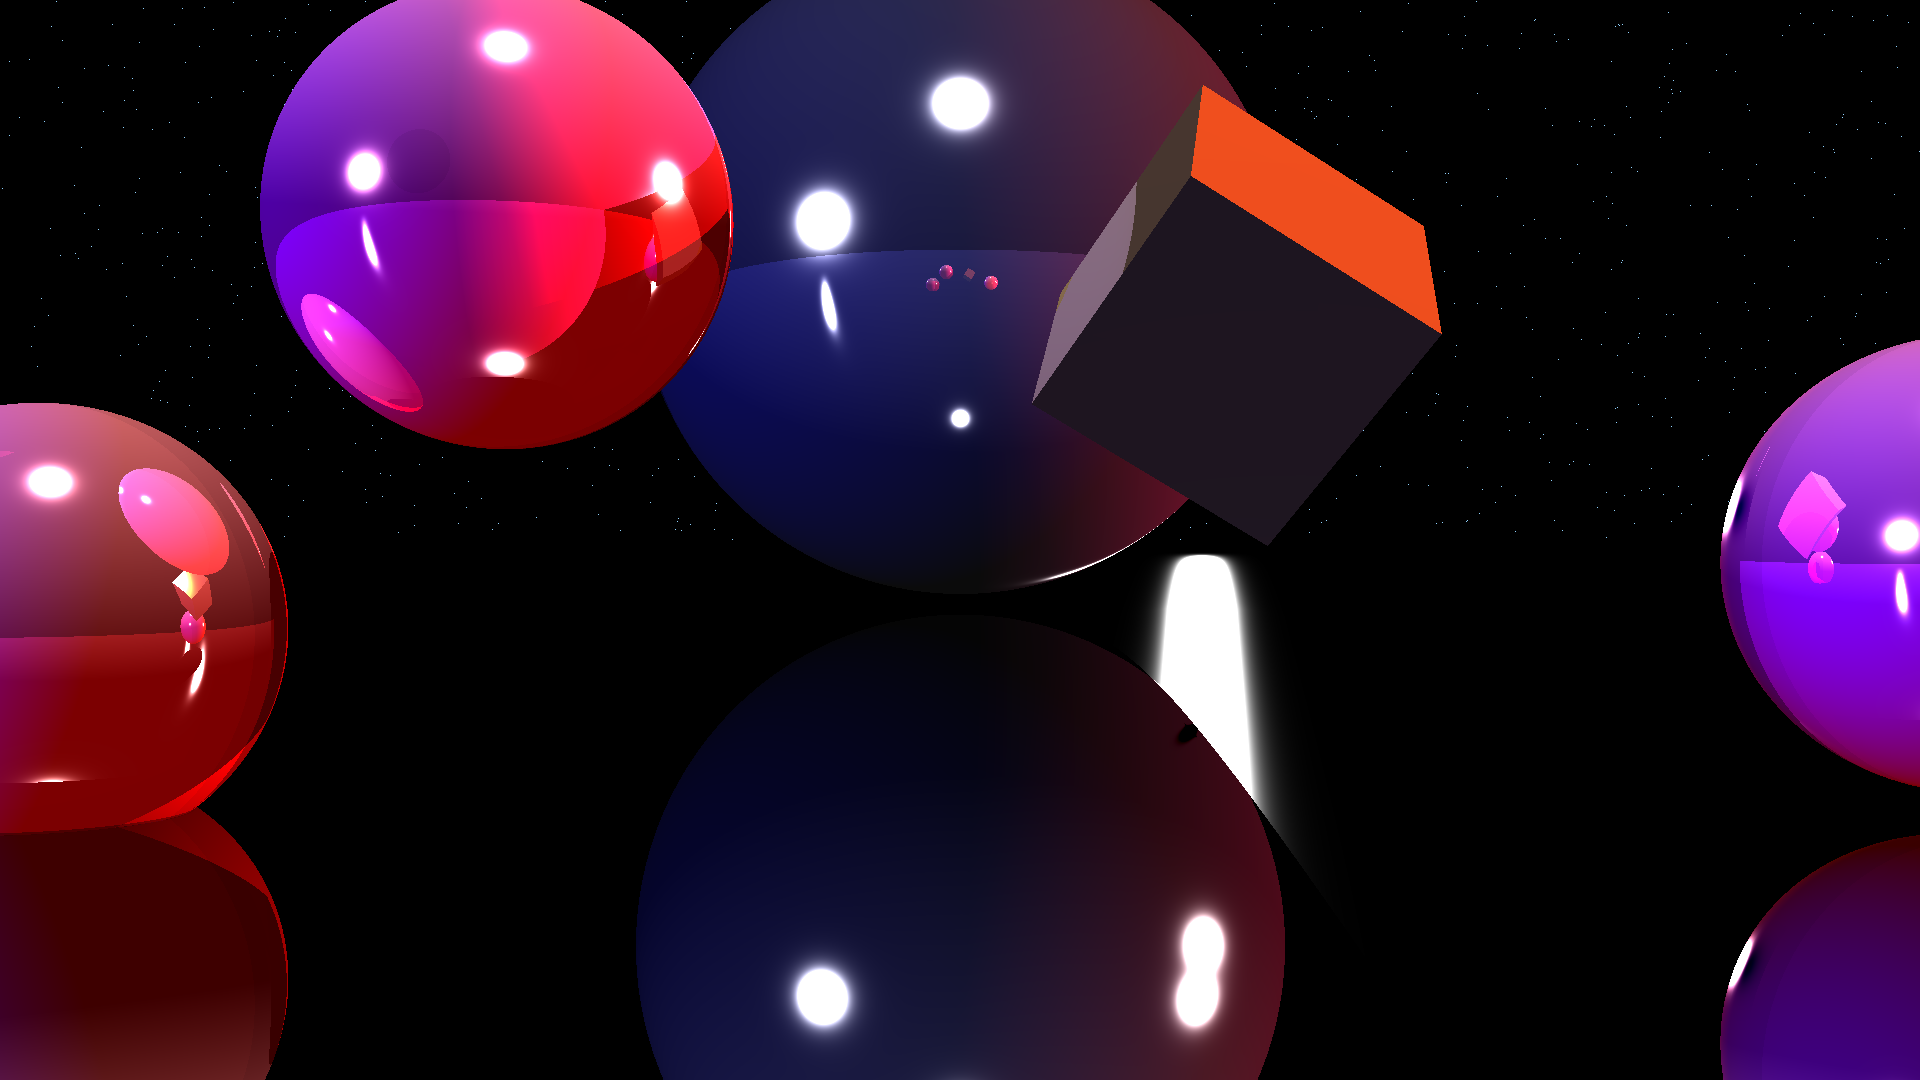
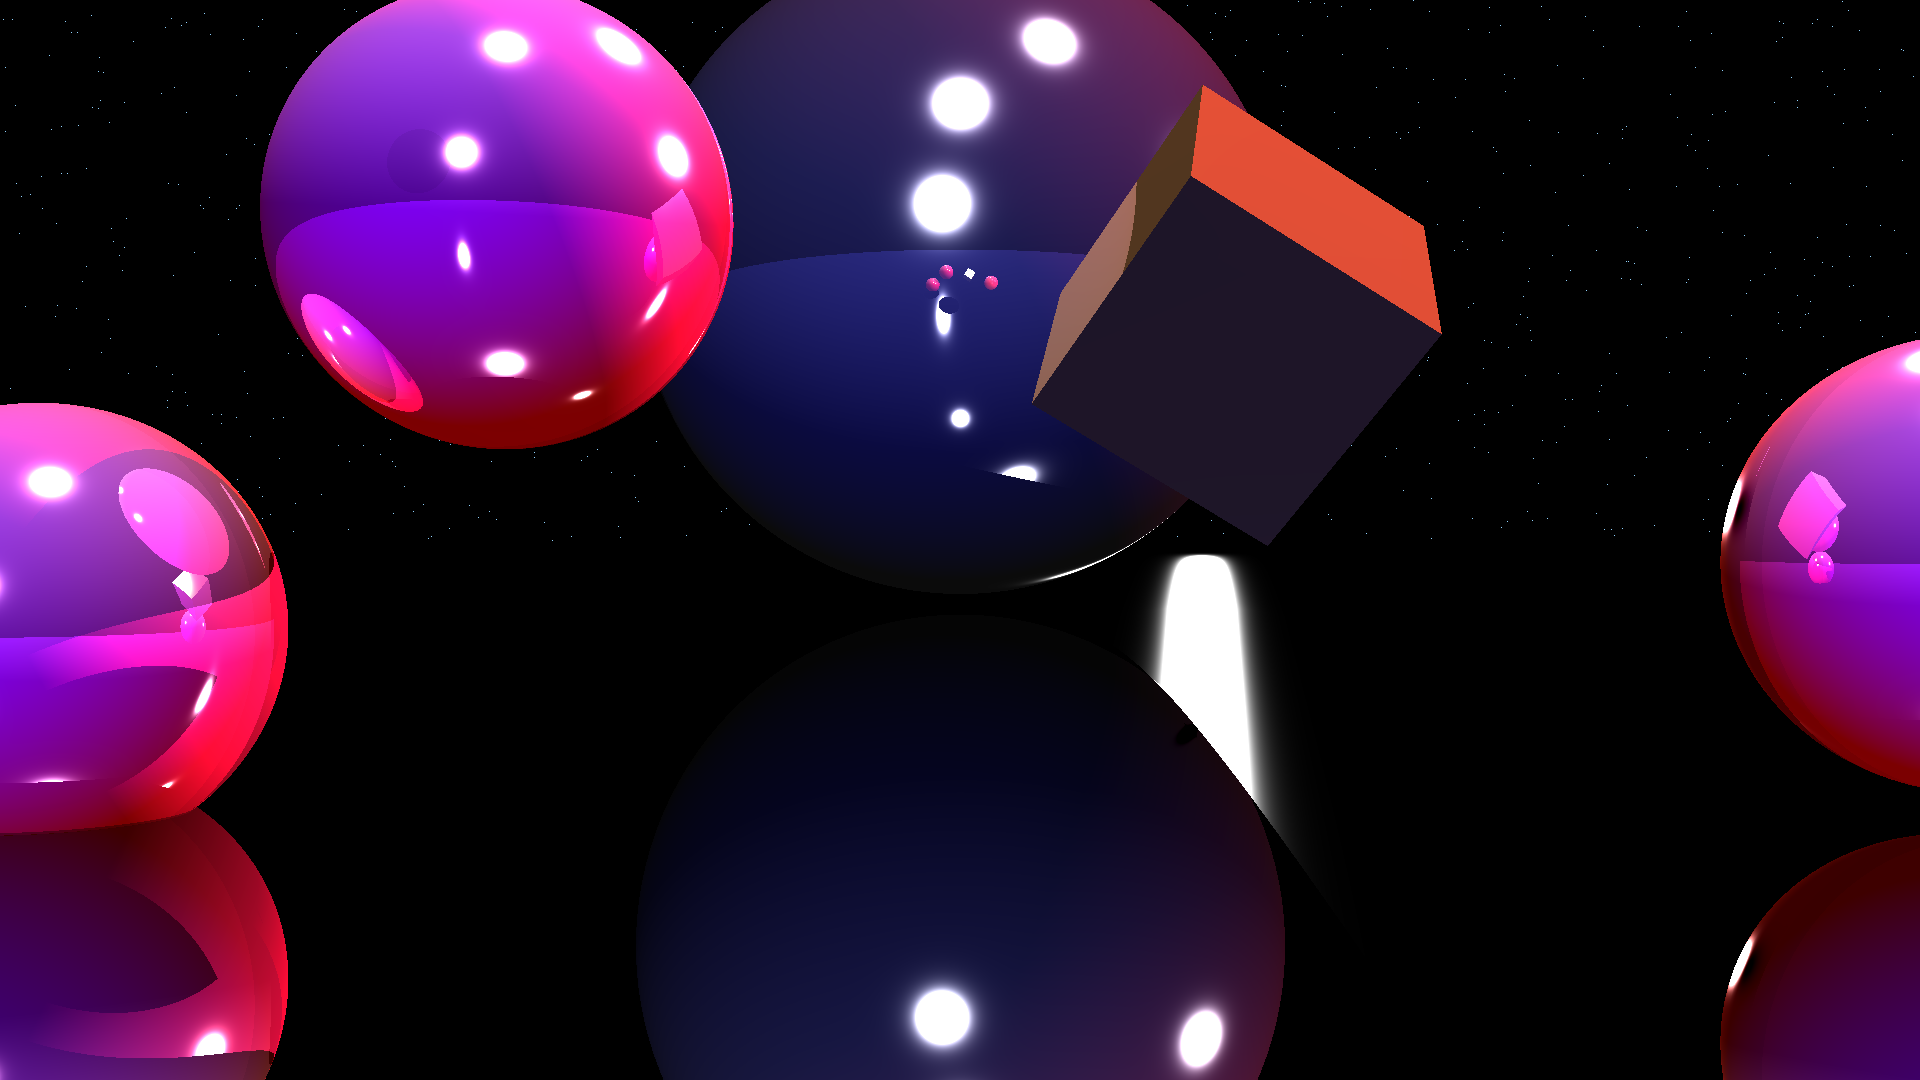
Added spiral render

diff --git a/src/main/Renderer.java b/src/main/Renderer.java
@@ -12,17 +12,20 @@ import java.awt.image.BufferStrategy;
 import java.awt.image.BufferedImage;
 import java.io.File;
 import java.io.IOException;
-import java.util.Arrays;
-import java.util.Map;
-import java.util.Random;
+import java.util.*;
+import java.util.List;
 import java.util.concurrent.ExecutorService;
 import java.util.concurrent.Executors;
+import java.util.concurrent.ThreadLocalRandom;
 import java.util.concurrent.TimeUnit;
 
 public class Renderer {
+    private final boolean spiralRender = true;
+    private final boolean randomRendering = false;
+
     private final double lightsourceFactor; // or a bit of contrast
     private final double epsilon; // the difference that will be subtracted for shadowing
-    private final int maxRecurseLevel; // TODO: move to SDL parameter
+    private final int maxRecurseLevel;
     private final boolean shadowsEnabled;
     private final boolean reflection;
     private final boolean refraction;
@@ -96,9 +99,6 @@ public class Renderer {
         } catch (IOException e) {
             e.printStackTrace();
         }
-        // shoot rays in a for loop
-        double threadedScreenHeight = screenHeight / (threads * 2);
-        double threadedScreenWidth = screenWidth / (threads * 2);
 
         ExecutorService es = Executors.newFixedThreadPool(threads);
 
@@ -106,26 +106,63 @@ public class Renderer {
         int columnIndex = 0;
 
         try {
-            while (columnIndex * threadedScreenWidth < screenWidth) {
-                int finalColumnIndex = columnIndex;
-                rowIndex = 0;
+            if (spiralRender) {
+                int rows = 60;
+                int columns = 60;
 
-                while (rowIndex * threadedScreenHeight < screenHeight) {
-                    int finalRowIndex = rowIndex;
+                List<int[]> spiralOrder = RenderFormat.getSpiralOrder(columns, rows);
+                Collections.reverse(spiralOrder);
+
+                double threadedSpiralScreenHeight = screenHeight / rows;
+                double threadedSpiralScreenWidth = screenWidth / columns;
+
+                for (int[] ints : spiralOrder) {
+                    rowIndex = ints[0];
+                    columnIndex = ints[1];
+
+                    int finalColumnIndex1 = columnIndex;
+                    int finalRowIndex1 = rowIndex;
+
                     es.execute(() -> {
-                        double startColumn = finalColumnIndex * threadedScreenWidth;
-                        // uncomment for random rendering (does work but does not perform a complete render). It's quite funny tho
-                        // double startColumn = ThreadLocalRandom.current().nextInt((int) screenWidth);
-                        double finishColumn = threadedScreenWidth + (finalColumnIndex * threadedScreenWidth);
+                        double startColumn = finalColumnIndex1 * threadedSpiralScreenWidth;
+                        double finishColumn = threadedSpiralScreenWidth + (finalColumnIndex1 * threadedSpiralScreenWidth);
 
-                        double startRow = finalRowIndex * threadedScreenHeight;
-                        double finishRow = threadedScreenHeight + (finalRowIndex * threadedScreenHeight);
+                        double startRow = finalRowIndex1 * threadedSpiralScreenHeight;
+                        double finishRow = threadedSpiralScreenHeight + (finalRowIndex1 * threadedSpiralScreenHeight);
 
                         traceRegion(startColumn, finishColumn, startRow, finishRow, h, w);
                     });
-                    rowIndex++;
                 }
-                columnIndex++;
+            } else {
+                // normal order
+                double threadedScreenHeight = screenHeight / (threads * 2);
+                double threadedScreenWidth = screenWidth / (threads * 2);
+
+                while (columnIndex * threadedScreenWidth < screenWidth) {
+                    int finalColumnIndex = columnIndex;
+                    rowIndex = 0;
+
+                    while (rowIndex * threadedScreenHeight < screenHeight) {
+                        int finalRowIndex = rowIndex;
+                        es.execute(() -> {
+                            double startColumn;
+                            if (randomRendering) {
+                                // random rendering (does work but does not perform a complete render). It's quite funny tho
+                                startColumn = ThreadLocalRandom.current().nextInt((int) screenWidth);
+                            } else {
+                                startColumn = finalColumnIndex * threadedScreenWidth;
+                            }
+                            double finishColumn = threadedScreenWidth + (finalColumnIndex * threadedScreenWidth);
+
+                            double startRow = finalRowIndex * threadedScreenHeight;
+                            double finishRow = threadedScreenHeight + (finalRowIndex * threadedScreenHeight);
+
+                            traceRegion(startColumn, finishColumn, startRow, finishRow, h, w);
+                        });
+                        rowIndex++;
+                    }
+                    columnIndex++;
+                }
             }
 
             es.shutdown();

diff --git a/src/main/RenderFormat.java b/src/main/RenderFormat.java
@@ -1,0 +1,79 @@
+package main;
+
+import java.util.ArrayList;
+import java.util.List;
+
+public class RenderFormat {
+    public static List<int[]> getSpiralOrder(int columns, int rows) {
+        int i, k = 0, l = 0;
+        int m = rows;
+        int n = columns;
+
+        // total number of
+        // elements in matrix
+        int total = m * n;
+
+        List<int[]> spiralFormIndices = new ArrayList<>();
+
+        /* k - starting row index
+        m - ending row index
+        l - starting column index
+        n - ending column index
+        i - iterator */
+
+        // initialize the count
+        int cnt = 0;
+
+        while (k < m && l < n) {
+            if (cnt == total)
+                break;
+
+            // Print the first column
+            // from the remaining columns
+            for (i = k; i < m; ++i) {
+                spiralFormIndices.add(new int[]{i, l});
+                cnt++;
+            }
+            l++;
+
+            if (cnt == total)
+                break;
+
+            // Print the last row from
+            // the remaining rows
+            for (i = l; i < n; ++i) {
+                spiralFormIndices.add(new int[]{m - 1, i});
+                cnt++;
+            }
+            m--;
+
+            if (cnt == total)
+                break;
+
+            // Print the last column
+            // from the remaining columns
+            if (k < m) {
+                for (i = m - 1; i >= k; --i) {
+                    spiralFormIndices.add(new int[]{i, n - 1});
+                    cnt++;
+                }
+                n--;
+            }
+
+            if (cnt == total)
+                break;
+
+            // Print the first row
+            // from the remaining rows
+            if (l < n) {
+                for (i = n - 1; i >= l; --i) {
+                    spiralFormIndices.add(new int[] {k, i});
+                    cnt++;
+                }
+                k++;
+            }
+        }
+
+        return spiralFormIndices;
+    }
+}
